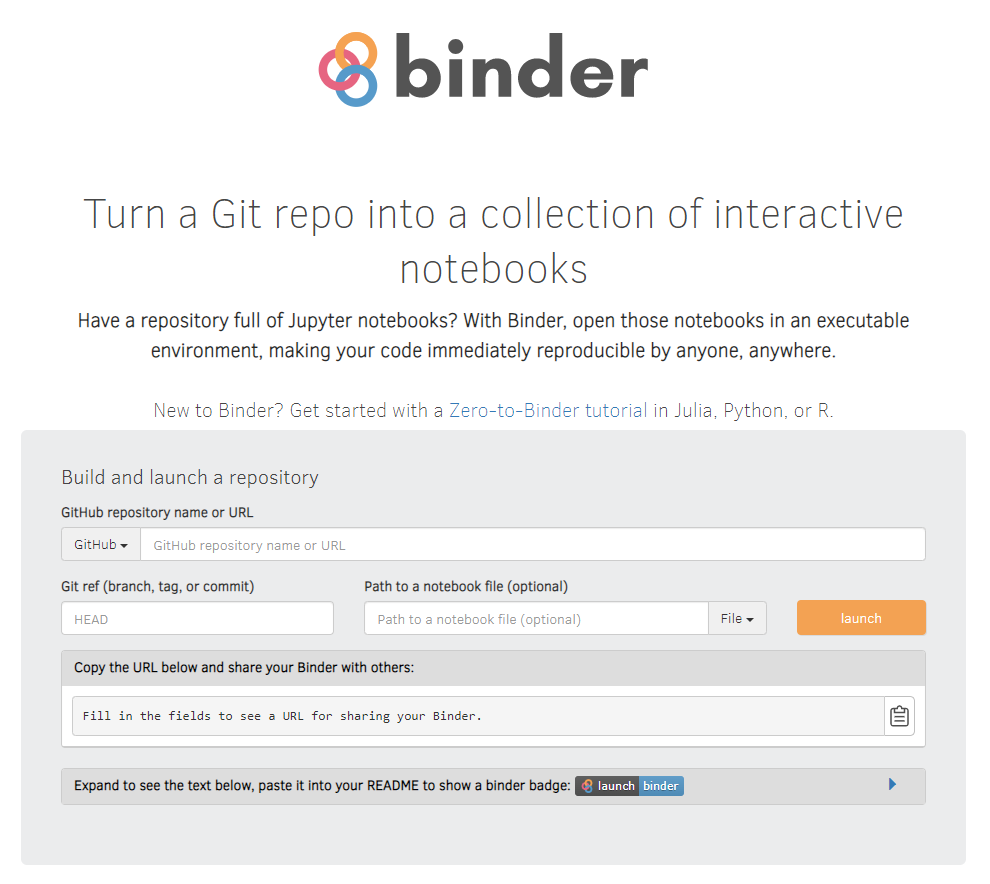
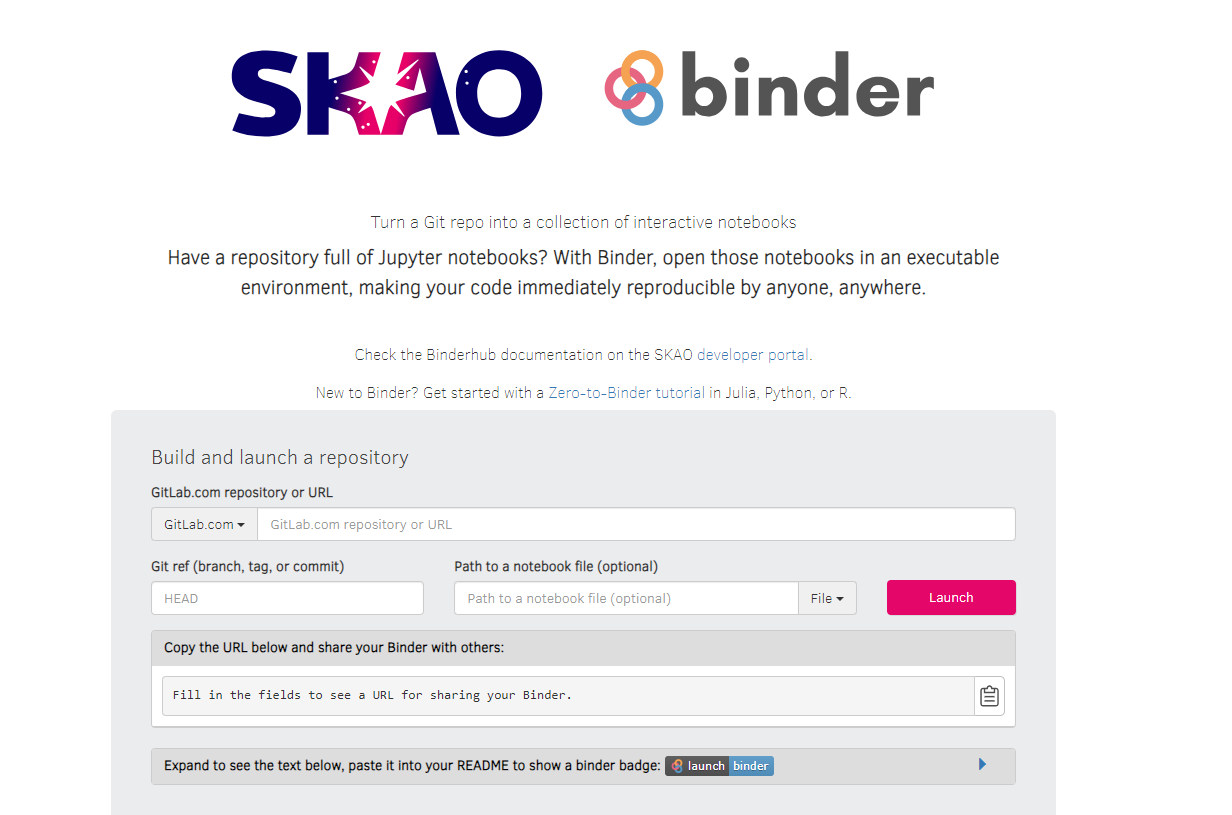
ST-1757: Binderhub Page Updates

diff --git a/src/tools/binderhub.rst b/src/tools/binderhub.rst
@@ -15,8 +15,8 @@ To access both services a user should sign in using *<jira-username>@ad.skateles
 
 The following URLs should be used to access the corresponding services:
 
-* **BinderHub** - https://k8s.stfc.skao.int/binderhub/
-* **JupyterHub** - https://k8s.stfc.skao.int/binderhub/jupyterhub/
+* **BinderHub** - https://k8s-cicd.skao.int/binderhub/
+* **JupyterHub** - https://k8s-cicd.skao.int/binderhub/jupyterhub/
  
 BinderHub usage
 ================
